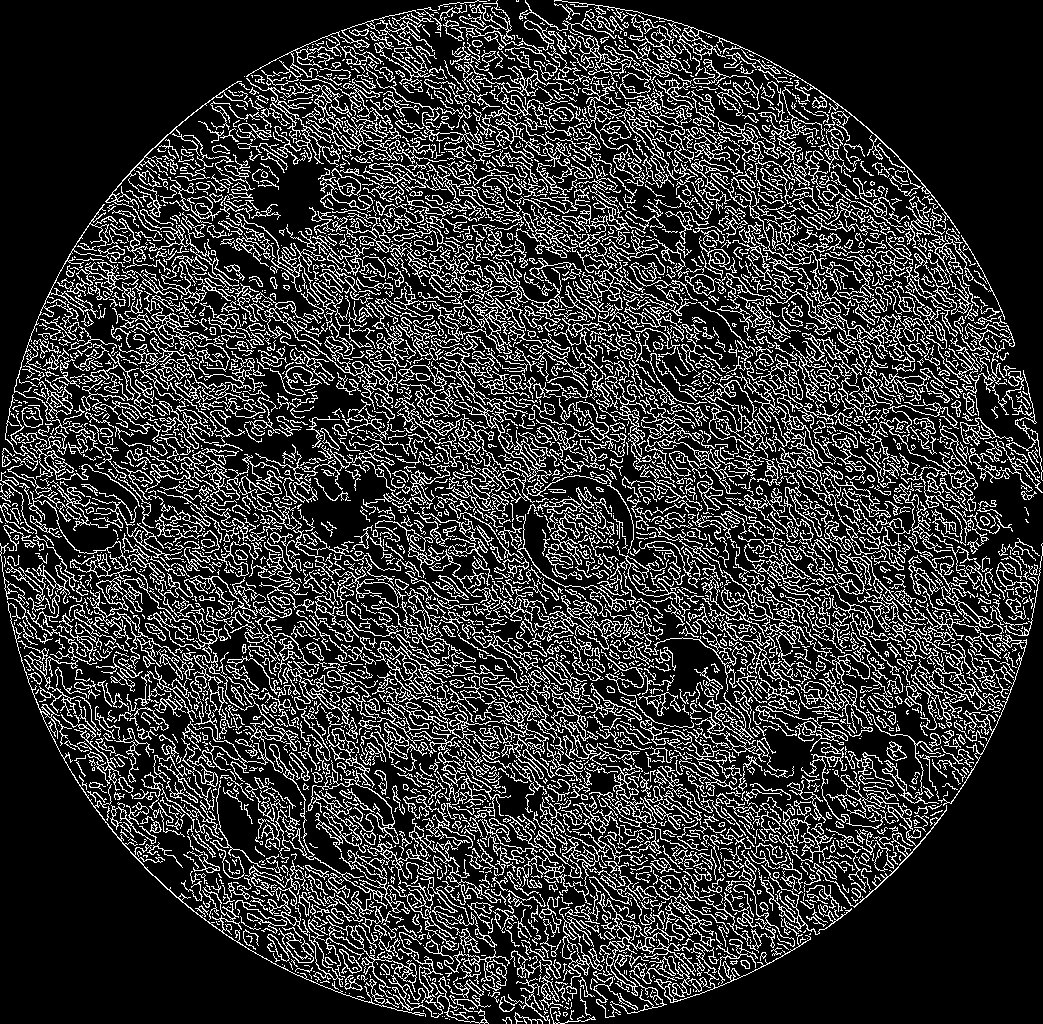
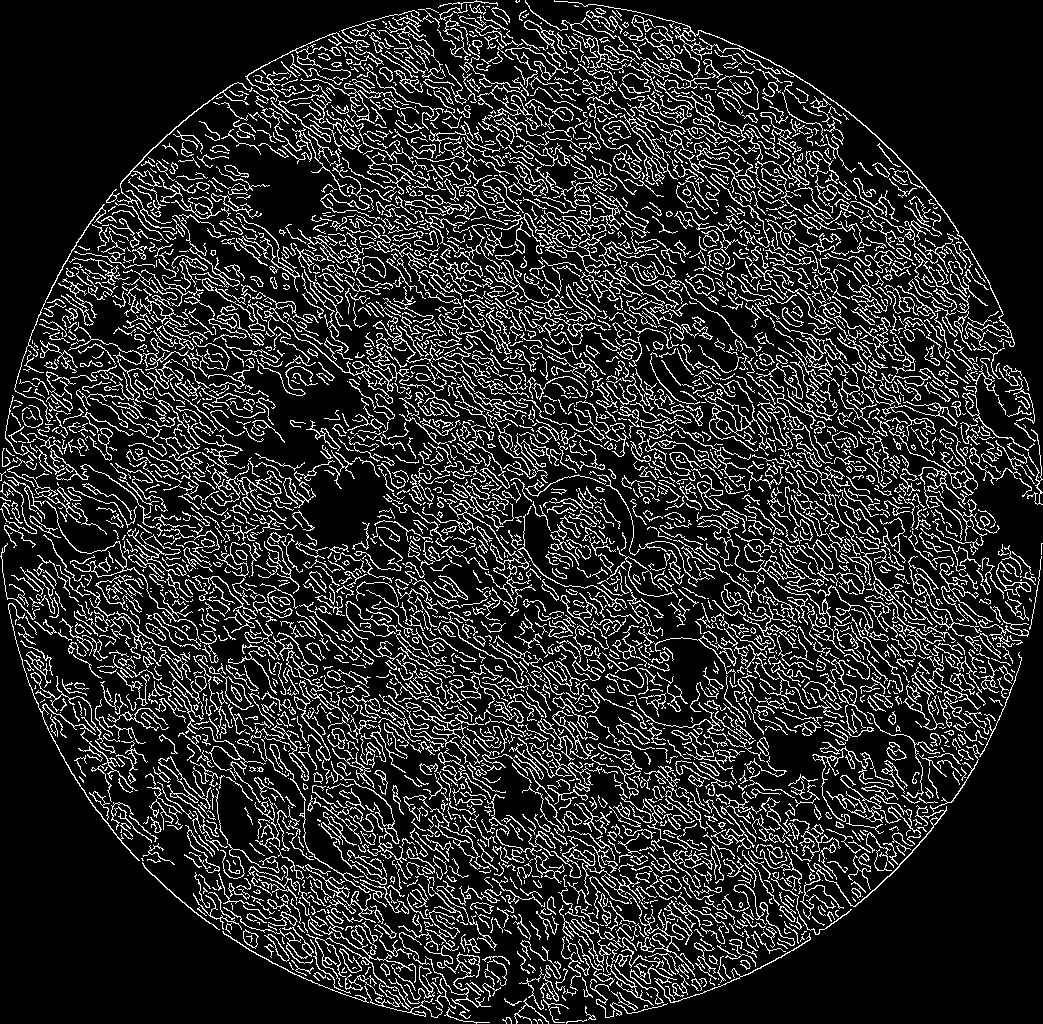
adding edge det

Changed region(s): [[0.0, 0.0, 1.0, 1.0]]

diff --git a/Python/edgeDetection.py b/Python/edgeDetection.py
@@ -1,8 +1,11 @@
 import cv2
+from pygments.formatters import img
+
 
 def edgeDetection(imgname, imgpath):
-    clahe = cv2.imread(imgpath, cv2.IMREAD_GRAYSCALE)
-    edgeDetection = cv2.Canny(clahe,50,150)
+    imgload = cv2.imread(imgpath, cv2.IMREAD_GRAYSCALE)
+    blurred = cv2.GaussianBlur(imgload,(5,5), 0)
+    edgeDetection = cv2.Canny(blurred,50,150)
     cv2.imwrite(f"{imgname}_edgeDet.png", edgeDetection)
     return edgeDetection
 
